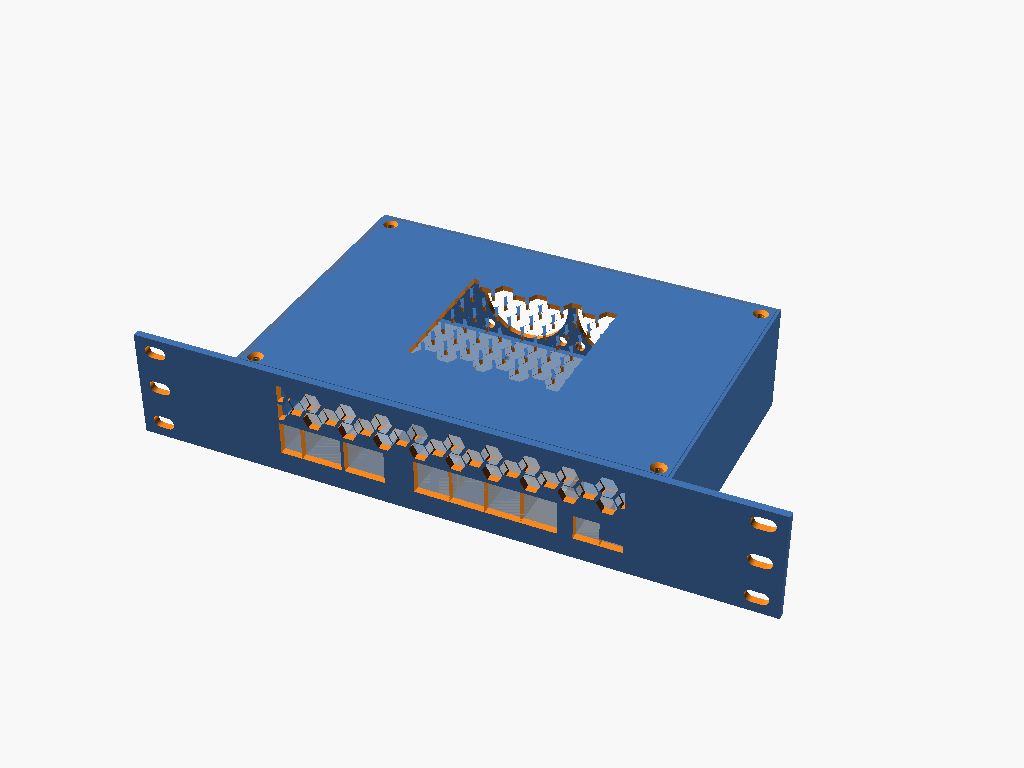
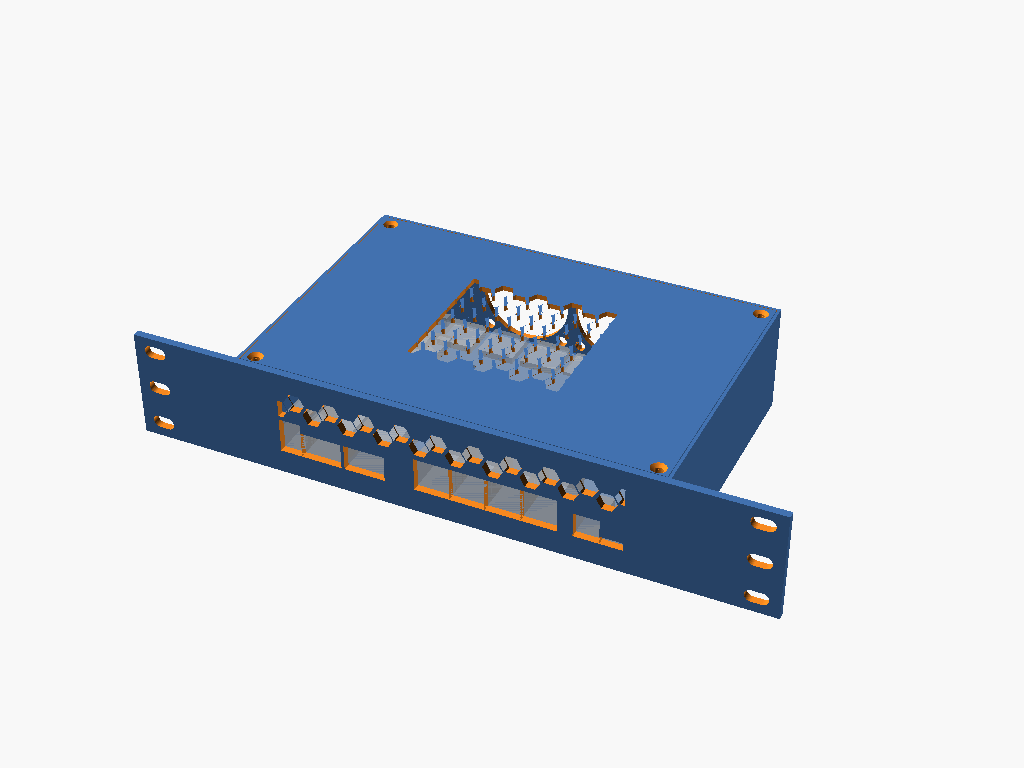
docs(bpir4): fins orientation + worst-case underside note; regen render (#56)

Changed region(s): [[0.25, 0.5, 0.625, 0.7188], [0.4062, 0.4062, 0.5625, 0.5]]

diff --git a/projects/bpir4-1u-chassis/README.md b/projects/bpir4-1u-chassis/README.md
@@ -45,6 +45,20 @@ See `params.scad`. Key: `enable_exhaust` (rear fans on/off, customizer
 default), `honeycomb_cell`/`honeycomb_wall` (hex size/spacing shared by the
 faceplate and lid vent bands).
 
+## Design Notes
+
+**Heatsink orientation:** The BPI-R4's stock heatsink has fins running
+side-to-side, not front-to-back — suboptimal for this chassis's
+front-intake/rear-exhaust airflow strategy. No alternative heatsink
+orientation is available; this is a known thermal caveat, not a design defect.
+
+**Underside module clearance:** The chassis sizes its internal
+floor-to-board gap to the worst-case underside component keep-out: all
+optional modules populated simultaneously (2× mini-PCIe + double-sided
+M.2-2280). No modules are assumed absent; dimensions derive from the
+board's bottom-face data, ensuring flat, stackable underside geometry with
+no floor recesses.
+
 ## Assembly reference
 
 `assembly.scad` has a `show_rack` toggle (`/* [Show] */` group) that renders